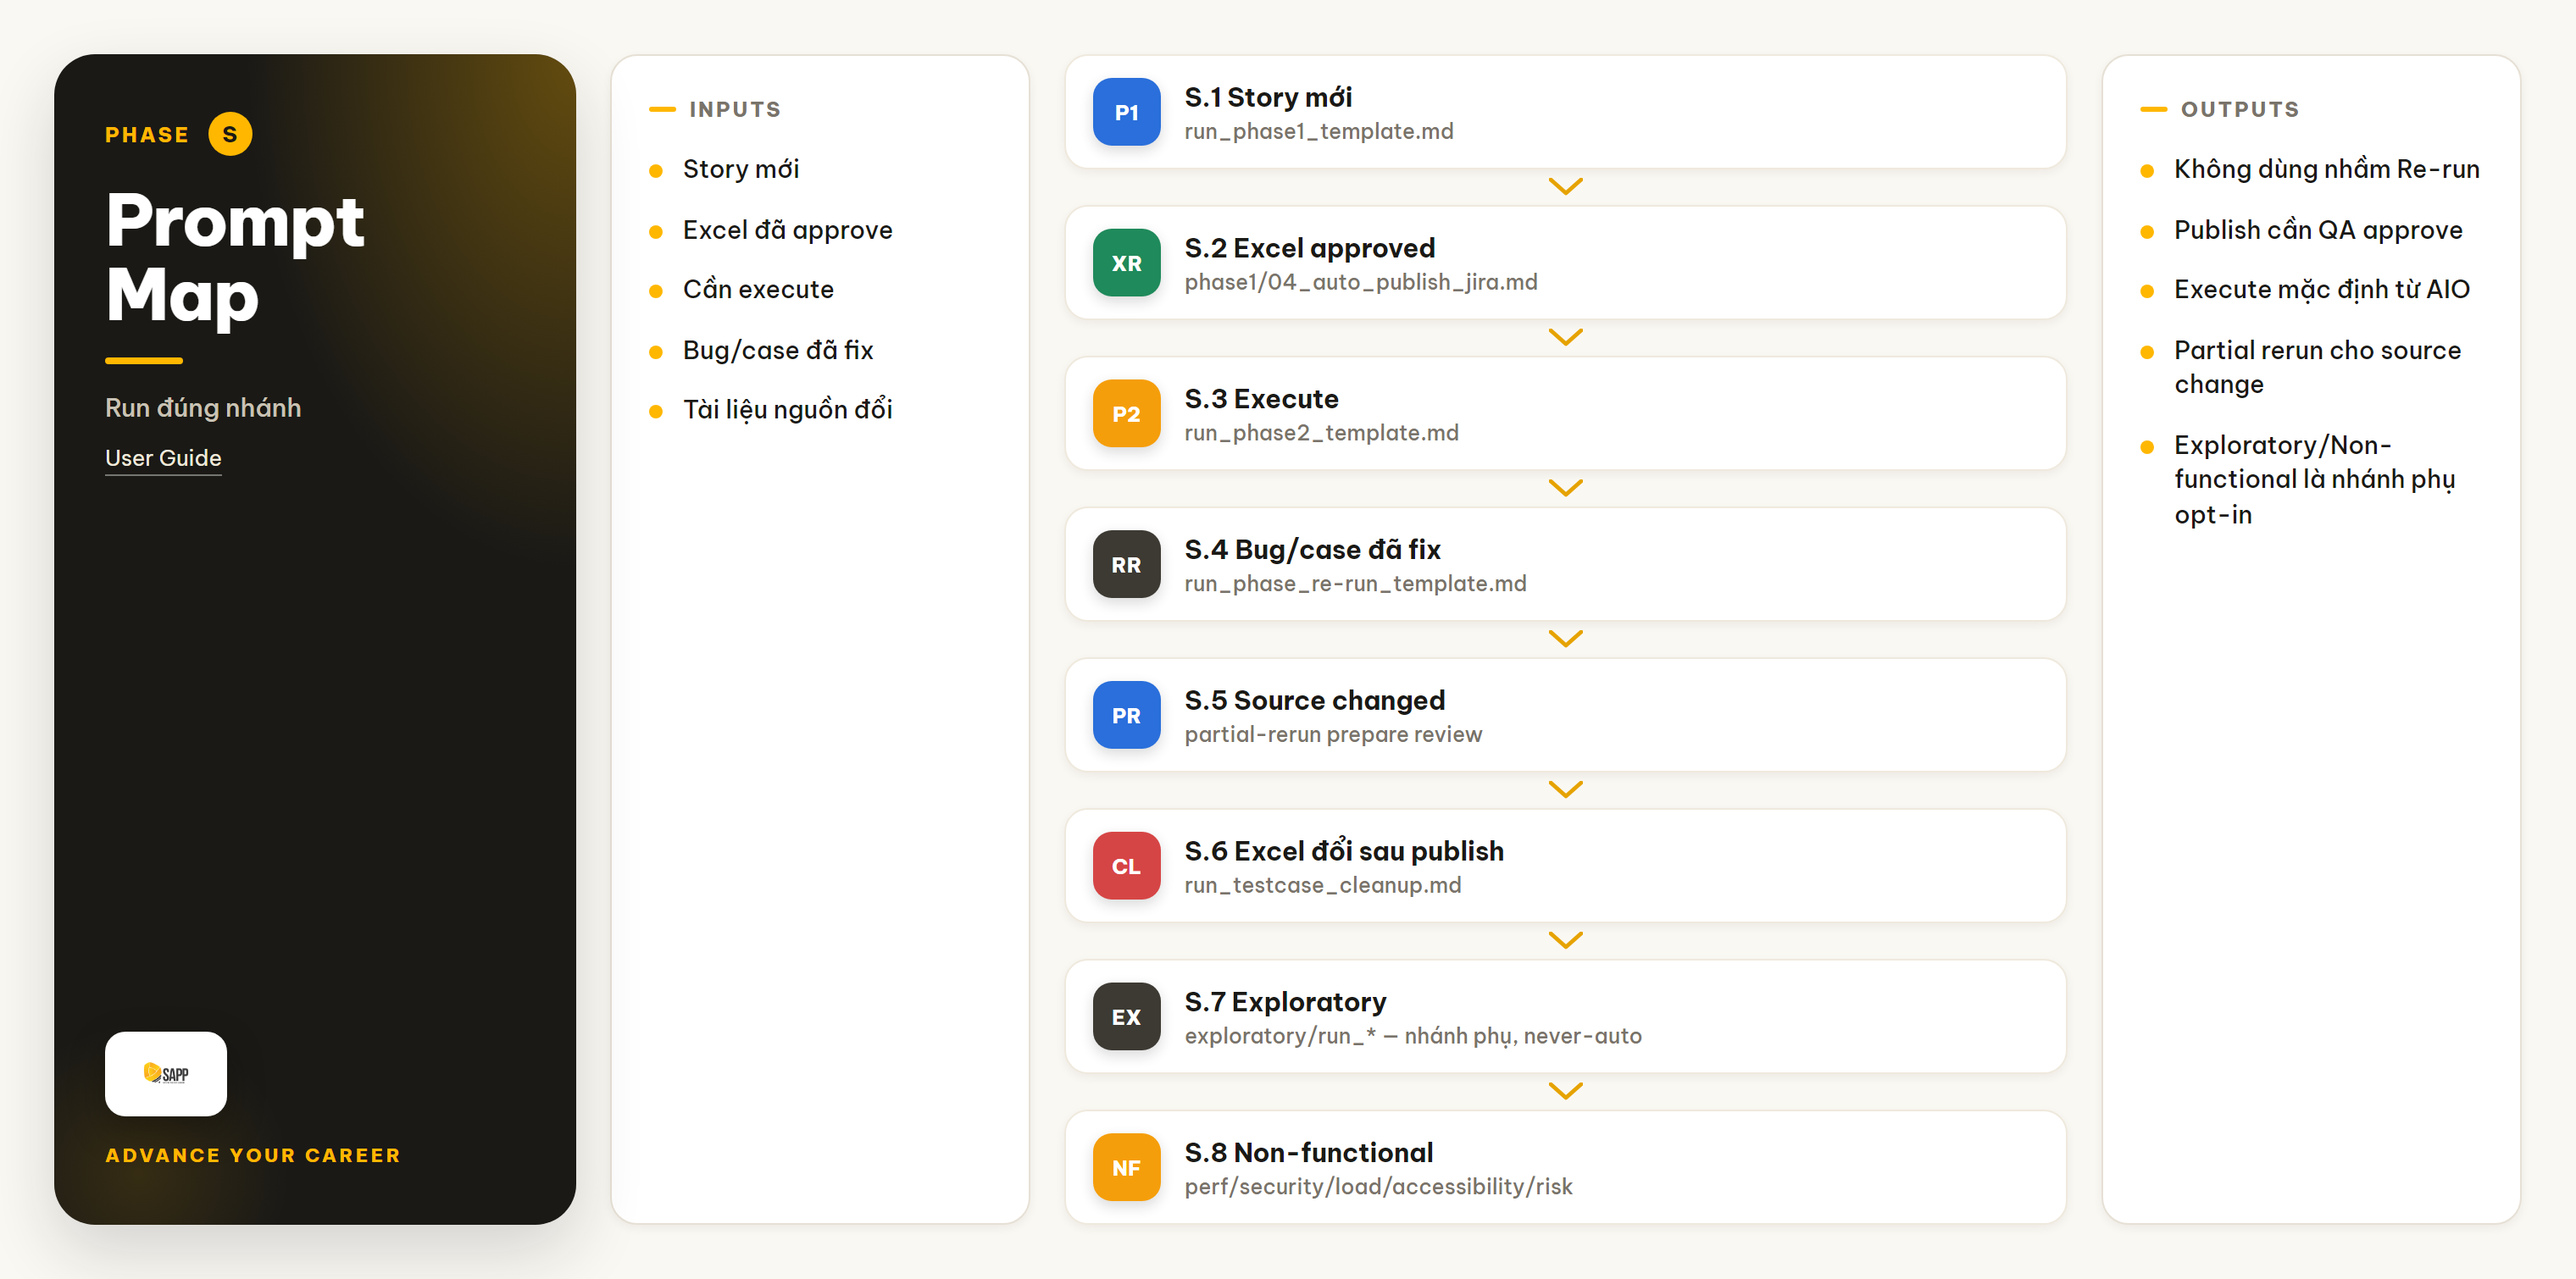
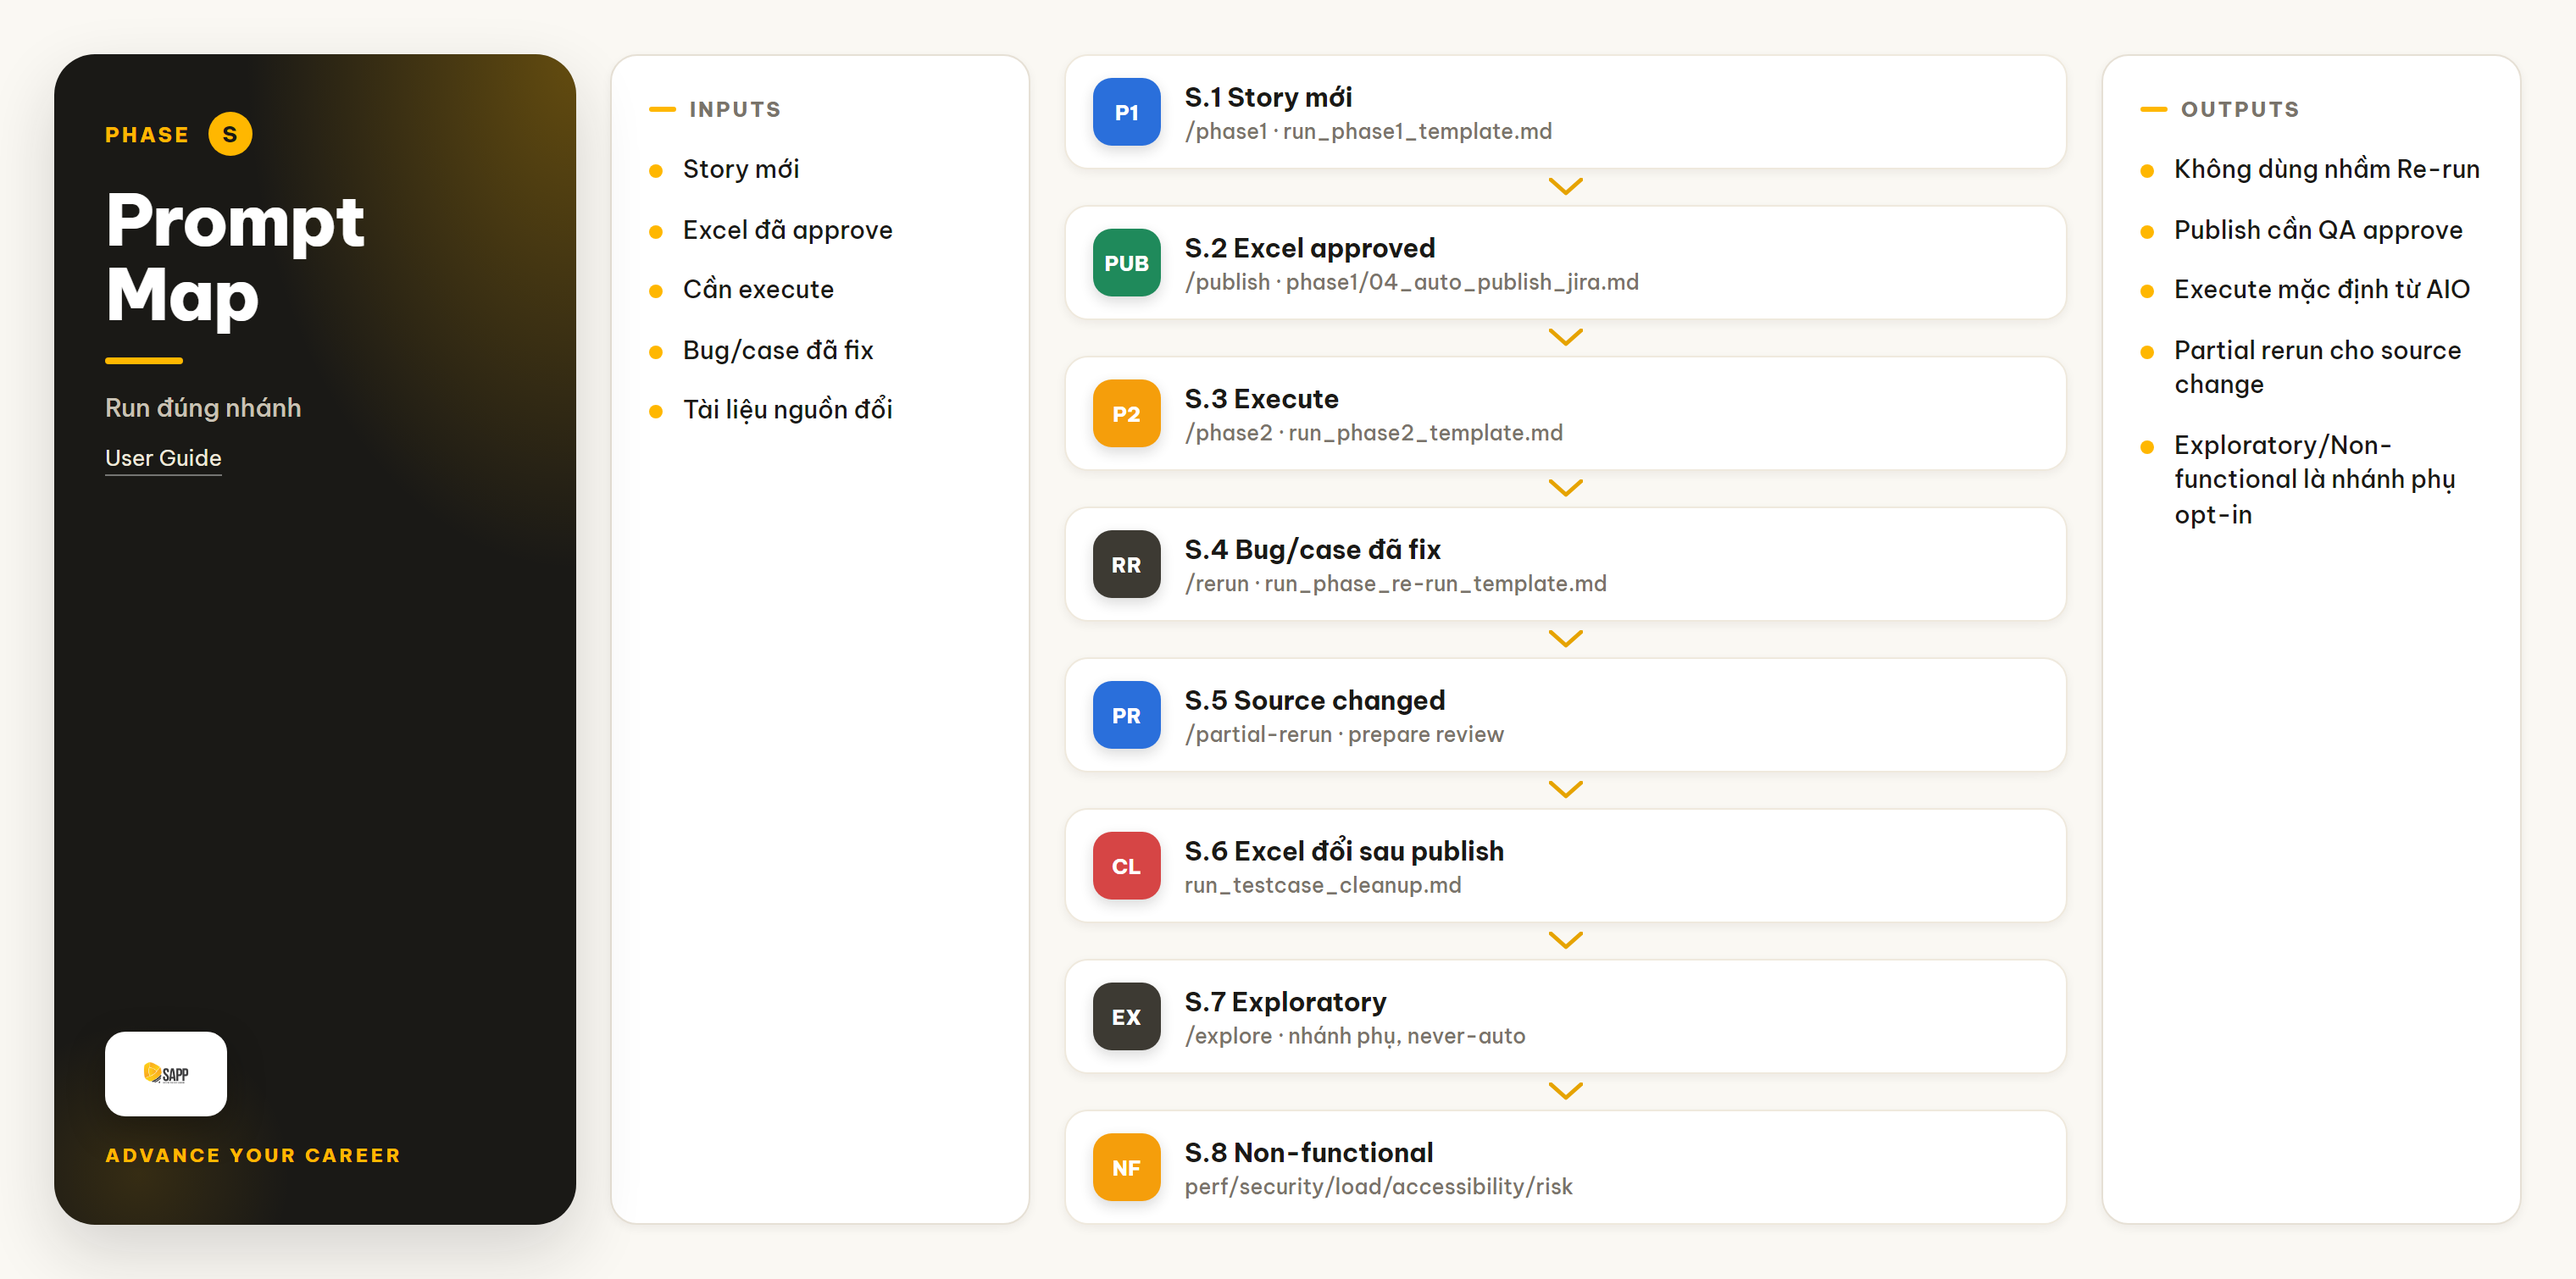
docs: cập nhật README/USER_GUIDE cho máy mới + sinh lại ảnh (gỡ vết Xray "XR" và glyph lỗi)
TEXT — docs chưa nhắc thứ nào trong số mới (đo: gates:index 0 · GATES.md 0 · npm run rule 0 ·
rule:toc 0 · retention.json 0 lần trong cả 3 file docs). Thêm:
  · README §Common Commands: khối "Tra luật · soi bộ gate" + nói rõ RULE_GLOBAL KHÔNG auto-load
    (file luôn-trong-ngữ-cảnh là CLAUDE.md, 13 dòng) nên tra theo mục mới là cách đọc luật đúng.
  · USER_GUIDE §9.3: cách tra một mục luật (~287 token) thay vì đọc cả file (~12.800).

ẢNH — hai lỗi THẤY ĐƯỢC trong ảnh người dùng đọc, cả hai đều ngoài tầm mọi gate:

① Badge `XR` trên node "S.2 Excel approved" — vết Xray sống sót qua đợt xoá 20/08 vì gate NO-XRAY
   khớp /xray/i, không khớp 2 chữ "XR"; và ảnh là NHỊ PHÂN nên không máy nào quét được nội dung.
   Ảnh sinh 21/08, tức người dùng đã nhìn badge của một công cụ không còn tồn tại suốt 2 tuần.
   Sửa thành `PUB`.

② Glyph U+2387 (⎇) cạnh "Exploratory" — font Be Vietnam Pro không có, render thành ô rỗng. Gỡ.

Kèm: gắn slash command vào từng node của Prompt Map (/phase1 · /publish · /phase2 · /rerun ·
/partial-rerun · /explore) — 9 lệnh thêm ở phiên trước chưa có mặt trong sơ đồ "chọn đúng nhánh".

Đã sinh lại bằng `npm run user-guide:images` và ĐỌC LẠI cả hai ảnh để xác nhận, không tin vào
việc script chạy xong. `advanced-capabilities` giữ nguyên phạm vi: gates:index/rule là tooling
bảo trì kit, không phải "năng lực nâng cao" — nhồi vào là sai chỗ.

Nghiệm thu: json:check · gates:index:check · rule --check · secret:scan · lint · typecheck OK.
[…]

diff --git a/.agent/config/GATES.md b/.agent/config/GATES.md
@@ -35,7 +35,7 @@ lịch sử, còn việc CHẶN nằm ở `dim:coverage` (chiều `bug_history` 
 | CHẶN (có cờ --enforce) | `expansion:plan` | QUYẾT TRƯỚC KHI CHẠY: case nào mở rộng trục nào, và tốn bao nhiêu. | `scripts/qa/expansion_plan.js` | RULE_GLOBAL.md · README.md · .agent/workflows · .agent/rules · prompt_templates · .claude/commands · tests/fe/infra |
 | CHẶN (có cờ --enforce) | `explore:check`, `explore:check:enforce`, `explore:close` | MÁY cho nhánh exploratory: kiểm phiên + đóng vòng học. | `scripts/qa/explore_session.js` | exploratory · .claude/commands |
 | CHẶN (có cờ --enforce) | `fixture:matrix` | TRỤC 4 + 5: **nhánh/biến thể** × **trạng thái kế cận** (42/69 bug của SAPP-24395). | `scripts/qa/fixture_matrix.js` | RULE_GLOBAL.md · README.md · .agent/rules · prompt_templates |
-| CHẶN (có cờ --enforce) | `gates:index`, `gates:index:check` | sinh DANH MỤC GATE của kit từ chính source, không viết tay. | `scripts/qa/gate_index.js` | .gitlab-ci.yml · .github/workflows |
+| CHẶN (có cờ --enforce) | `gates:index`, `gates:index:check` | sinh DANH MỤC GATE của kit từ chính source, không viết tay. | `scripts/qa/gate_index.js` | .gitlab-ci.yml · README.md · .github/workflows |
 | CHẶN (có cờ --enforce) | `howto:check`, `howto:index`, `howto:find` | quản lý 2 store trả lời câu hỏi "LÀM SAO tới được đó": | `scripts/qa/howto_store.js` | README.md · prompt_templates |
 | CHẶN (có cờ --enforce) | `lighthouse` | điểm Performance / Accessibility / SEO / Best-practices thật, chạy qua CDP. | `scripts/qa/lighthouse_check.js` | README.md · USER_GUIDE.md · scripts/qa/README.md · .github/workflows · .agent/skills · prompt_templates · tests/fe/infra |
 | CHẶN (có cờ --enforce) | `load` | wrapper MỎNG cho k6 (Loại B: load/stress/soak nhiều VU). Loại A (single-user) dùng perf_check.js. | `scripts/qa/load_check.js` | RULE_GLOBAL.md · CLAUDE.md · README.md · USER_GUIDE.md · QUICKSTART.md · scripts/qa/README.md · .github/workflows · .agent/workflows · .agent/rules · .agent/skills · prompt_templates · exploratory · tests/fe/infra |

diff --git a/README.md b/README.md
@@ -217,6 +217,21 @@ Tự động hoá ở [.github/workflows/release.yml](.github/workflows/release.
 chạy tay với `dry_run` **mặc định true**. `release:verify` là **cổng** — không PASS thì không tạo Release.
 Dự án nhận kit đọc [docs/UPGRADE.md](docs/UPGRADE.md).
 
+### Tra luật · soi bộ gate (cho người MAINTAIN kit)
+
+```bash
+npm run rule -- --list       # mục lục RULE_GLOBAL.md + chi phí token từng mục
+npm run rule -- security     # in ĐÚNG một mục — đo 287 token, thay vì 12.800 khi đọc cả file
+npm run rule:toc             # sinh lại mục lục neo trong RULE_GLOBAL.md
+npm run gates:index          # sinh .agent/config/GATES.md — CHẶN / SINH / BÁO CÁO cho từng máy
+npm run gates:index:check    # CI chặn khi bảng lệch source (một gate bị nới thành cảnh báo = bắt được)
+```
+
+`RULE_GLOBAL.md` **không** được auto-load (file luôn-trong-ngữ-cảnh là `CLAUDE.md`, 13 dòng) — nên tra
+theo mục là cách đọc luật đúng, không phải đọc cả file. Danh mục máy: [.agent/config/GATES.md](.agent/config/GATES.md).
+Ngưỡng lưu trữ kho học khai bằng số ở [.agent/config/retention.json](.agent/config/retention.json) —
+vượt ngưỡng thì `metrics_collect` **cảnh báo**, không chặn.
+
 ### Slash command (điểm vào — gọn nhất)
 
 ```text

diff --git a/USER_GUIDE.md b/USER_GUIDE.md
@@ -1085,6 +1085,14 @@ Mode = DRY_RUN hoặc APPLY.
 
 Bảng command canonical nằm ở [README.md](README.md) mục **Common Commands** (install, `npm test`, `test:task*`, Jira bug reporter...). Danh sách đầy đủ lệnh AIO Tests (publish, pull, push execution, cleanup) ở [scripts/integrations/jira/README.md](scripts/integrations/jira/README.md).
 
+Tra luật mà **không** phải đọc cả `RULE_GLOBAL.md` (465 dòng ~ 12.800 token):
+
+```text
+npm run rule -- --list        # mục lục 27 mục + chi phí token từng mục
+npm run rule -- security      # in đúng mục Security (~287 token)
+npm run rule -- 10            # hoặc theo số thứ tự trong --list
+```
+
 Hai lệnh của flow execute-trên-AIO:
 
 ```text
